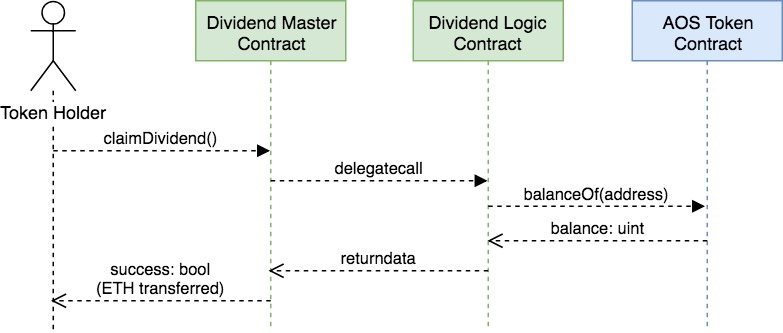
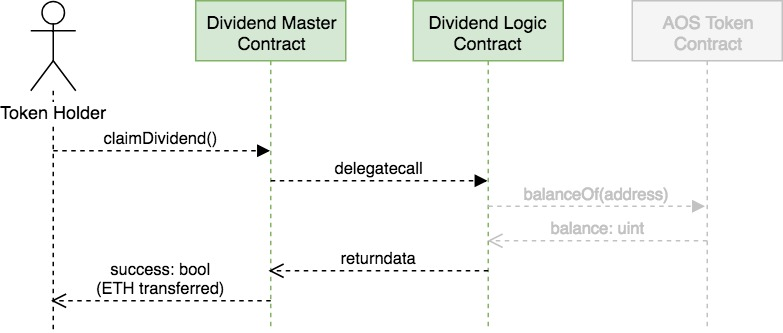
update contract architecture

Changed region(s): [[0.7969, 0.0, 1.0, 0.2102], [0.613, 0.6607, 0.8889, 0.7508], [0.6437, 0.5405, 0.9195, 0.6306]]

diff --git a/README.md b/README.md
@@ -75,7 +75,8 @@ Every token transferring action triggers a call to the _check()_ function in the
 ##
 #### 2. claim dividend
 
-As a token holder, I can claim my fair share of the dividend.
+As a token holder, I can claim my fair share of the dividend.  
+A call to determine the callers token balance (greyed out here) is not planned for now, but can easily be added later on.
 
 ![dividen_claim](./resources/dividend_claim.jpg "claim dividend")
 
@@ -144,6 +145,13 @@ function in the CLC like this:
 ### Contract descriptions
 #### AOS Token
 TODO
+
+
+### Tests
+
+All functionality of the smart contracts is tested in mulitple test classes found in the `/test` folder.  
+The tests are kept completely as atomic (specific) and autonomous as possible.  
+Autonomy means that no test will fail or succeed dependant on the outcome of a different test.
 
 
 
